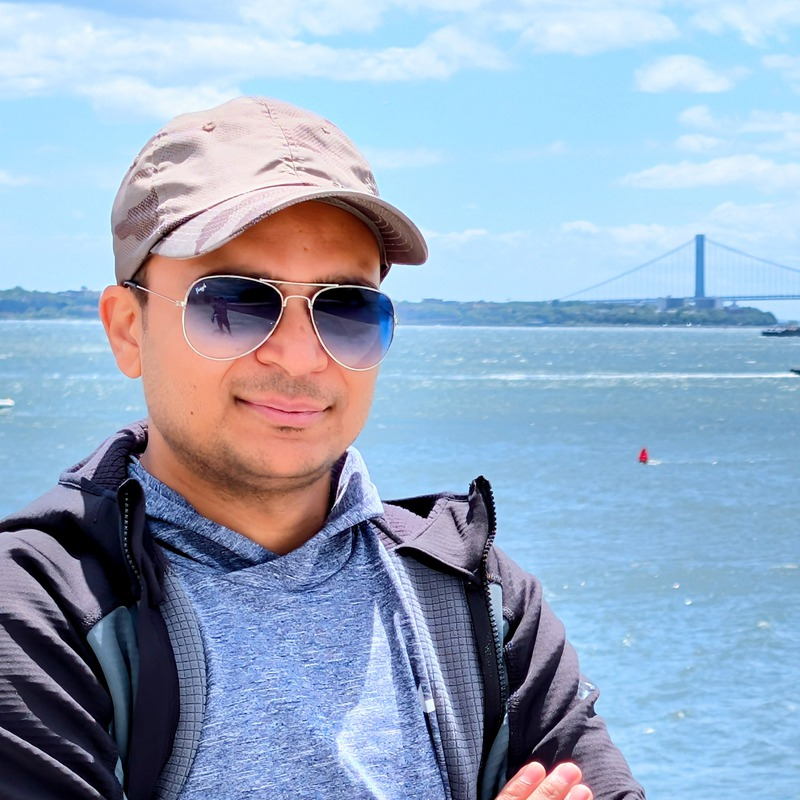
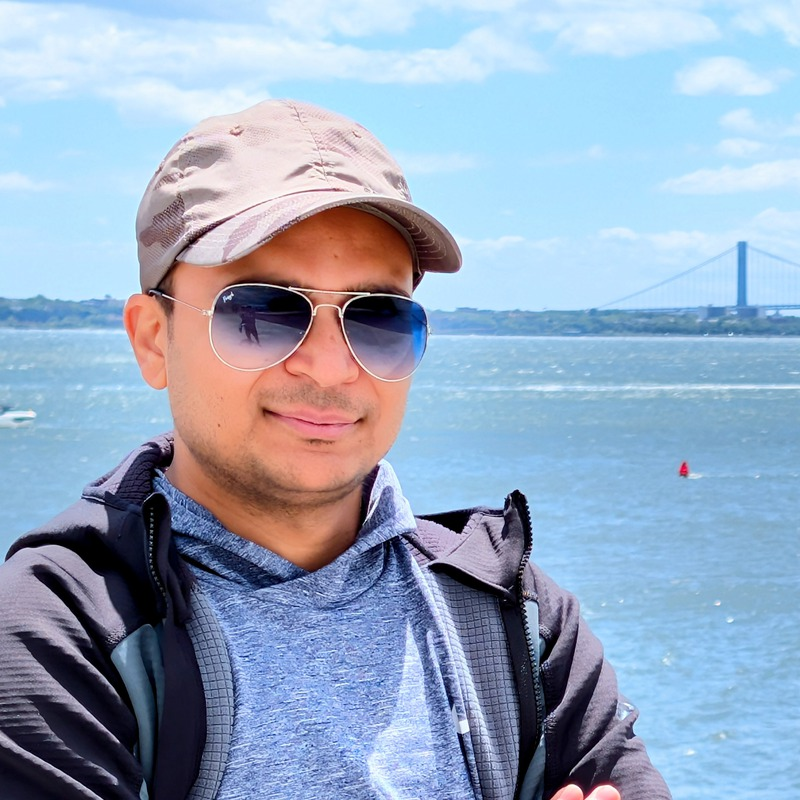
updates

diff --git a/css/main.css b/css/main.css
@@ -524,7 +524,7 @@ ul {
   margin-inline: auto;
   border-radius: 50%;
   object-fit: cover;
-  object-position: center 38%;
+  object-position: center 40%;
   border: 3px solid var(--border);
   box-shadow: var(--shadow);
 }